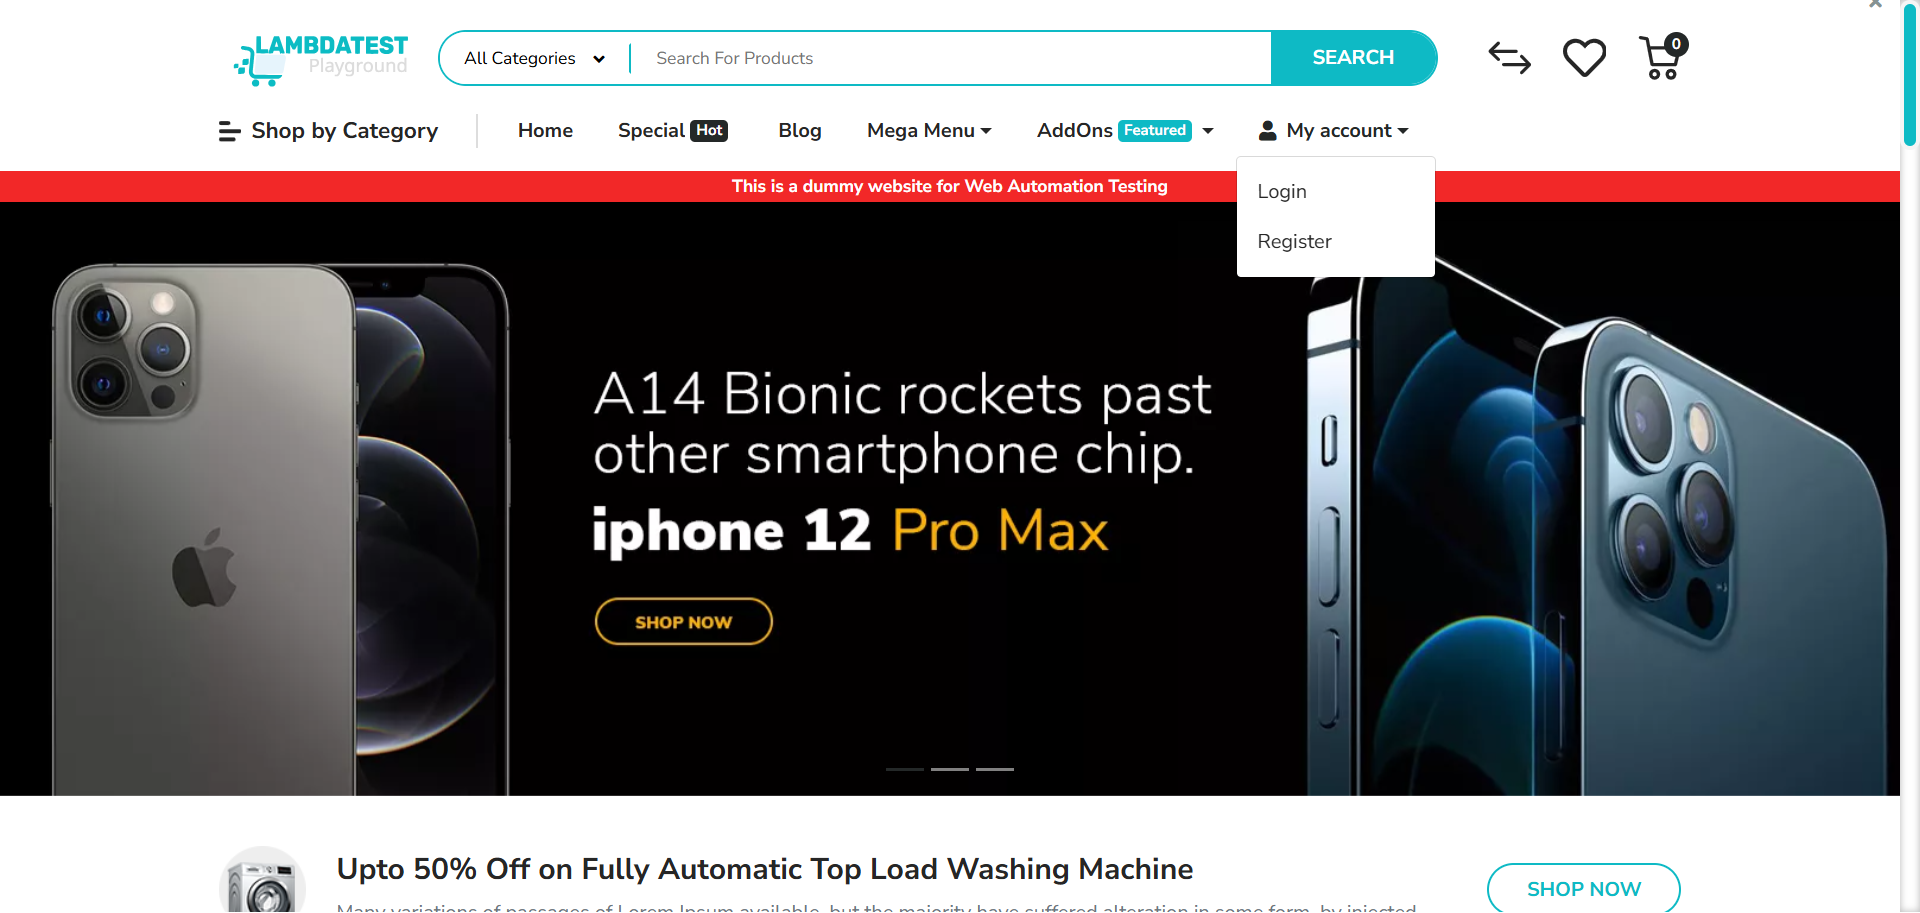
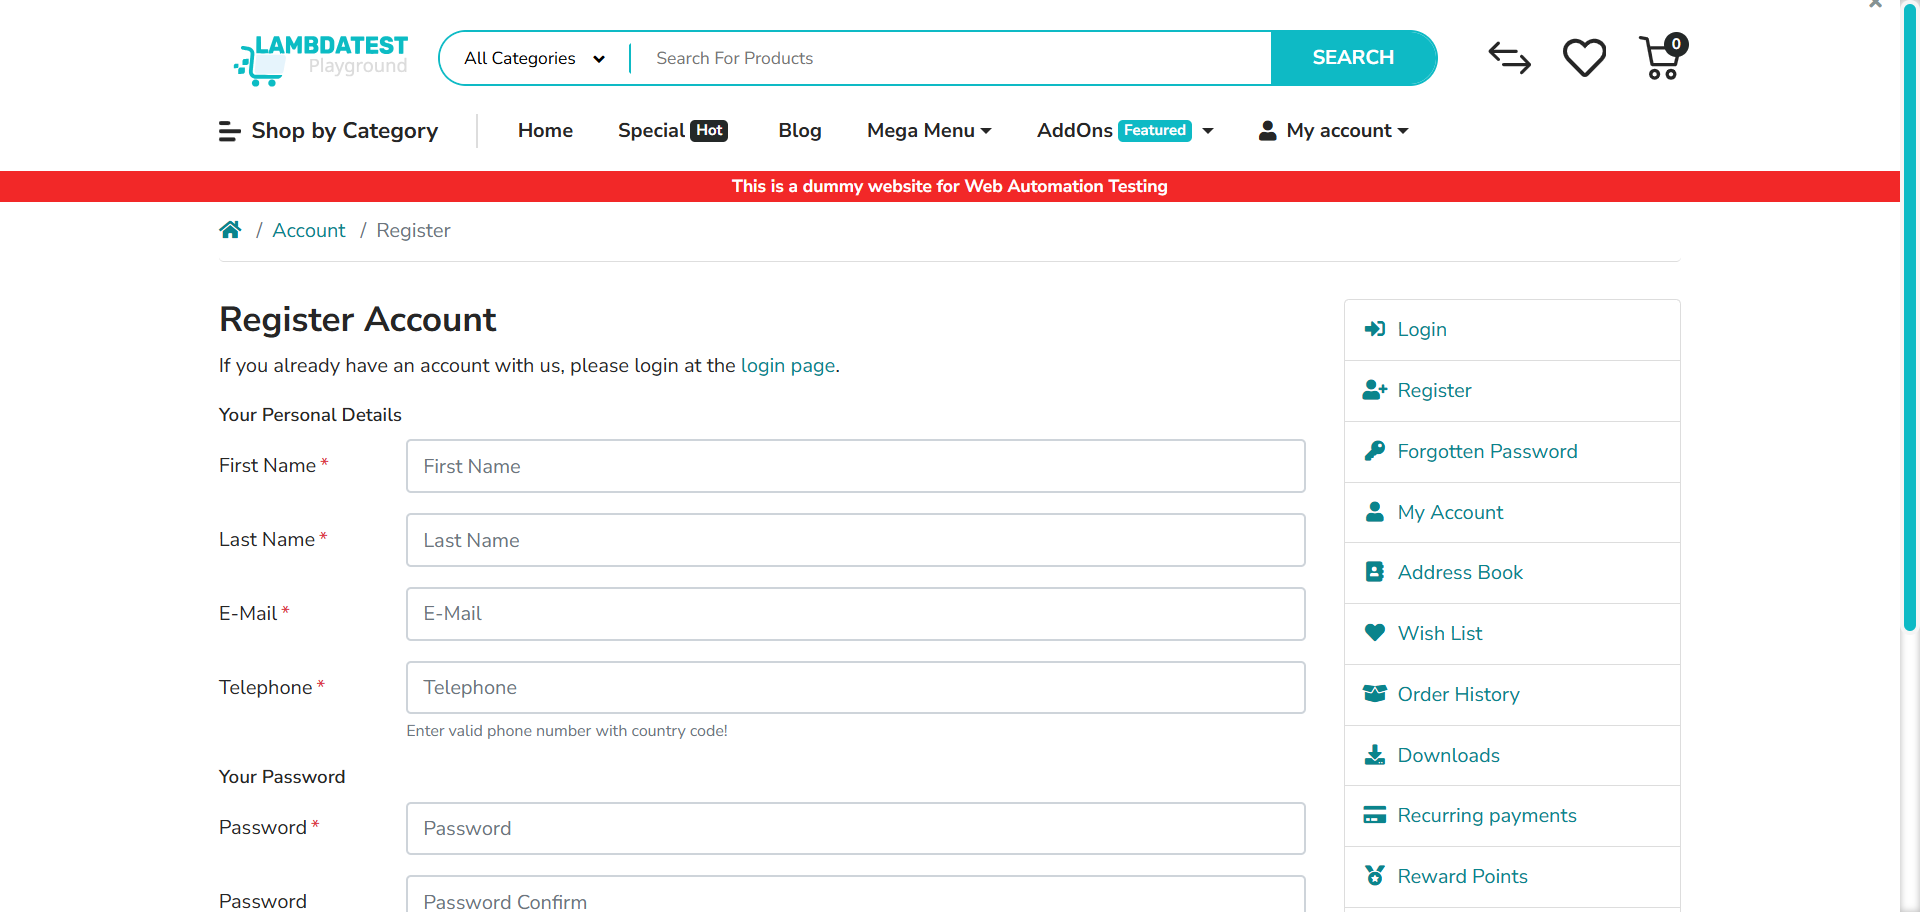
created more functions

diff --git a/tests/ecommerce-flow.spec.ts b/tests/ecommerce-flow.spec.ts
@@ -1,43 +1,37 @@
-import { test, expect, BrowserContext, Page } from "@playwright/test";
-const { goToRegisterPage, register } = require("../pages/RegisterPage");
-const { goToLoginPage, login } = require("../pages/LoginPage");
-const { addProduct, searchProduct } = require("../pages/Products");
-const { confirmOrder, fillForm, goToCart } = require("../pages/Checkout");
+import { test, BrowserContext, Page } from "@playwright/test";
 import { faker } from "@faker-js/faker";
 import * as fs from "node:fs";
+import dontenv from "dotenv";
+import type {
+  BillingData,
+  RegisterData,
+  TestResult,
+} from "../files/common.types";
 
-interface RegisterData {
-  firstName: string;
-  lastName: string;
-  email: string;
-  telephone: string;
-  password: string;
-  newsletter: "Yes" | "No";
-}
+dontenv.config();
 
-interface BillingData {
-  firstName: string;
-  lastName: string;
-  company: string;
-  add1: string;
-  add2: string;
-  city: string;
-  postcode: string;
-}
-
-type TestResult = {
-  title: string | undefined;
-  status: string | undefined;
-  screenshot?: string | undefined;
-};
-
+const pageUrl = process.env.PAGE_URL || "";
 const results: TestResult[] = [];
 
-let screenshotPath: string | undefined;
-let context: BrowserContext;
-let page: Page;
-let registeredEmail: string;
-let password: string;
+const {
+    register,
+    generateRandomRegisterData,
+  } = require("../pages/RegisterPage"),
+  { login } = require("../pages/LoginPage"),
+  { addProduct, searchProduct } = require("../pages/Products"),
+  {
+    confirmOrder,
+    fillForm,
+    goToCart,
+    generateRandomBillingData,
+  } = require("../pages/Checkout");
+
+let screenshotPath: string | undefined,
+  context: BrowserContext,
+  page: Page,
+  registeredEmail: string = process.env.REGISTERED_EMAIL || "",
+  password: string = process.env.PASSWORD || "",
+  registered: boolean = false;
 
 test.describe("Ecommerce Flow", () => {
   test.describe.configure({ mode: "serial" });
@@ -48,32 +42,17 @@ test.describe("Ecommerce Flow", () => {
   });
 
   test("Register", async () => {
-    registeredEmail = faker.internet.email();
-    password = faker.internet.password();
-    const regisData: RegisterData = {
-      firstName: faker.person.firstName(),
-      lastName: faker.person.lastName(),
-      email: registeredEmail,
-      telephone: faker.phone.number(),
-      password,
-      newsletter: Math.random() > 0.5 ? "Yes" : "No",
-    };
+    const regisData: RegisterData = generateRandomRegisterData();
+    registeredEmail = regisData.email;
+    password = regisData.password;
 
-    await page.goto("https://ecommerce-playground.lambdatest.io/");
-    await goToRegisterPage(page);
-    await register(page, regisData);
-    await expect(page).toHaveTitle("Your Account Has Been Created!");
+    await page.goto(pageUrl);
+    registered = await register(page, regisData);
   });
 
   test("Login", async () => {
-    await page.goto("https://ecommerce-playground.lambdatest.io/");
-    const alreadyLoggedIn = await goToLoginPage(page);
-    if (!alreadyLoggedIn) {
-      await login(page, registeredEmail, password);
-      await expect(page).toHaveTitle("My Account");
-    } else {
-      await expect(page).toHaveTitle("Your Store");
-    }
+    test.skip(registered, "User already registered, skipping login test");
+    await login(page, registeredEmail, password);
   });
 
   test("Product", async () => {
@@ -82,15 +61,7 @@ test.describe("Ecommerce Flow", () => {
   });
 
   test("Checkout", async ({}, testInfo) => {
-    const billingData: BillingData = {
-      firstName: faker.person.firstName(),
-      lastName: faker.person.lastName(),
-      company: faker.company.name(),
-      add1: faker.location.streetAddress(),
-      add2: faker.location.secondaryAddress(),
-      city: faker.location.city(),
-      postcode: faker.location.zipCode(),
-    };
+    const billingData: BillingData = generateRandomBillingData();
 
     await goToCart(page);
     await fillForm(page, billingData);

diff --git a/pages/Checkout.ts b/pages/Checkout.ts
@@ -1,15 +1,7 @@
 import { expect, Page } from "@playwright/test";
+import { faker } from "@faker-js/faker";
+import type { BillingData } from "../files/common.types";
 const checkoutSelectors = require("../selectors/checkout.json");
-
-interface BillingData {
-  firstName: string;
-  lastName: string;
-  company: string;
-  add1: string;
-  add2: string;
-  city: string;
-  postcode: string;
-}
 
 async function goToCart(page: Page) {
   await page.locator(checkoutSelectors.openCartButton).click();
@@ -17,25 +9,20 @@ async function goToCart(page: Page) {
 }
 
 async function fillForm(page: Page, data: BillingData) {
+  const { firstName, lastName, company, add1, add2, city, postcode } = data;
   await page
     .locator(checkoutSelectors.billingAddressFirstNameInput)
-    .fill(data.firstName);
+    .fill(firstName);
   await page
     .locator(checkoutSelectors.billingAddressLastNameInput)
-    .fill(data.lastName);
+    .fill(lastName);
   await page
     .locator(checkoutSelectors.billingAddressCompanyInput)
-    .fill(data.company);
-  await page
-    .locator(checkoutSelectors.billingAddressLine1Input)
-    .fill(data.add1);
-  await page
-    .locator(checkoutSelectors.billingAddressLine2Input)
-    .fill(data.add2);
-  await page.locator(checkoutSelectors.billingCityInput).fill(data.city);
-  await page
-    .locator(checkoutSelectors.billingPostcodeInput)
-    .fill(data.postcode);
+    .fill(company);
+  await page.locator(checkoutSelectors.billingAddressLine1Input).fill(add1);
+  await page.locator(checkoutSelectors.billingAddressLine2Input).fill(add2);
+  await page.locator(checkoutSelectors.billingCityInput).fill(city);
+  await page.locator(checkoutSelectors.billingPostcodeInput).fill(postcode);
 
   const country = page.locator(checkoutSelectors.billingCountrySelect);
   const countryOptions = await country.count();
@@ -56,7 +43,25 @@ async function fillForm(page: Page, data: BillingData) {
 async function confirmOrder(page: Page) {
   await page.locator(checkoutSelectors.confirmOrderButton).click();
   await expect(page).toHaveTitle("Your order has been placed!");
-  console.log("Order Placed!!!!!!!!!");
+  console.log("Order Placed!!!!");
 }
 
-module.exports = { goToCart, fillForm, confirmOrder };
+function generateRandomBillingData() {
+  const billingData: BillingData = {
+    firstName: faker.person.firstName(),
+    lastName: faker.person.lastName(),
+    company: faker.company.name(),
+    add1: faker.location.streetAddress(),
+    add2: faker.location.secondaryAddress(),
+    city: faker.location.city(),
+    postcode: faker.location.zipCode(),
+  };
+  return billingData;
+}
+
+module.exports = {
+  goToCart,
+  fillForm,
+  confirmOrder,
+  generateRandomBillingData,
+};

diff --git a/pages/LoginPage.ts b/pages/LoginPage.ts
@@ -1,38 +1,24 @@
-import { Page } from "@playwright/test";
+import { Page, expect } from "@playwright/test";
 import loginSelectors from "../selectors/login.json";
+import { shortTimeout } from "../files/global.json";
 
-async function goToLoginPage(page: Page) {
-  const menuButton = page.locator(loginSelectors.accountMenuButton);
-  const loginOption = page.locator(loginSelectors.loginOption);
-  const logoutOption = page.locator(loginSelectors.logoutOption);
-
-  await menuButton.hover();
-  const loginOptionVisible = await loginOption.isVisible();
-  const logoutOptionVisible = await logoutOption.isVisible();
-  // console.log(`Login option visible: ${loginOptionVisible}`);
-  // console.log(`Logout option visible: ${logoutOptionVisible}`);
-
-  if (loginOptionVisible) {
-    await loginOption.waitFor({ state: "visible" });
-    await loginOption.click();
-    return false;
-  }
-
-  if (logoutOptionVisible) {
-    console.log("Login option not found, user already logged in");
-    return true;
-  }
-
-  console.log(
-    "Neither login nor logout option found, user might be on a different page",
-  );
-  return false;
+async function navigateToLoginPage(page: Page) {
+  await page.locator(loginSelectors.accountMenuButton).hover();
+  await page.locator(loginSelectors.loginOption).waitFor({ state: "visible" });
+  await page.locator(loginSelectors.loginOption).click();
 }
 
-async function login(page: Page, user: string, pass: string) {
+async function addLoginCreds(page: Page, user: string, pass: string) {
   await page.locator(loginSelectors.emailInput).fill(user);
   await page.locator(loginSelectors.passwordInput).fill(pass);
   await page.locator(loginSelectors.loginButton).click();
+}
+
+async function login(page: Page, user: string, pass: string) {
+  await navigateToLoginPage(page);
+  await addLoginCreds(page, user, pass);
+  await page.waitForTimeout(shortTimeout);
+  await expect(page).toHaveTitle("My Account");
 }
 
 async function logout(page: Page) {
@@ -44,4 +30,4 @@ async function logout(page: Page) {
   await logoutOption.click();
 }
 
-module.exports = { goToLoginPage, login, logout };
+module.exports = { navigateToLoginPage, addLoginCreds, login, logout };

diff --git a/pages/RegisterPage.ts b/pages/RegisterPage.ts
@@ -1,14 +1,7 @@
-import { Page } from "@playwright/test";
+import { Page, expect } from "@playwright/test";
+import { faker } from "@faker-js/faker";
+import type { RegisterData } from "../files/common.types";
 import registerSelectors from "../selectors/register.json";
-
-interface RegisterData {
-  firstName: string;
-  lastName: string;
-  email: string;
-  telephone: string;
-  password: string;
-  newsletter: "Yes" | "No";
-}
 
 async function goToRegisterPage(page: Page) {
   const menuButton = page.locator(registerSelectors.accountMenuButton);
@@ -19,15 +12,8 @@ async function goToRegisterPage(page: Page) {
   await registerOption.click();
 }
 
-async function register(page: Page, data: RegisterData) {
-  const {
-    firstName,
-    lastName,
-    email,
-    telephone,
-    password,
-    newsletter,
-  } = data;
+async function fillRegisterFields(page: Page, data: RegisterData) {
+  const { firstName, lastName, email, telephone, password, newsletter } = data;
 
   console.log(`Registering new user: ${firstName} ${lastName} [${email}]`);
   await page.locator(registerSelectors.firstNameInput).fill(firstName);
@@ -43,4 +29,29 @@ async function register(page: Page, data: RegisterData) {
   await page.locator(registerSelectors.registerButton).click();
 }
 
-module.exports = { goToRegisterPage, register };
+async function register(page: Page, data: RegisterData) {
+  await goToRegisterPage(page);
+  await fillRegisterFields(page, data);
+  await expect(page).toHaveTitle("Your Account Has Been Created!");
+  return true;
+}
+
+function generateRandomRegisterData() {
+  const regisData: RegisterData = {
+    firstName: faker.person.firstName(),
+    lastName: faker.person.lastName(),
+    email: faker.internet.email(),
+    telephone: faker.phone.number(),
+    password: faker.internet.password(),
+    newsletter: Math.random() > 0.5 ? "Yes" : "No",
+  };
+  console.log(JSON.stringify(regisData, null, 2));
+  return regisData;
+}
+
+module.exports = {
+  goToRegisterPage,
+  fillRegisterFields,
+  register,
+  generateRandomRegisterData,
+};

diff --git a/files/common.types.ts b/files/common.types.ts
@@ -1,0 +1,24 @@
+export interface RegisterData {
+  firstName: string;
+  lastName: string;
+  email: string;
+  telephone: string;
+  password: string;
+  newsletter: "Yes" | "No";
+}
+
+export interface BillingData {
+  firstName: string;
+  lastName: string;
+  company: string;
+  add1: string;
+  add2: string;
+  city: string;
+  postcode: string;
+}
+
+export type TestResult = {
+  title: string | undefined;
+  status: string | undefined;
+  screenshot?: string | undefined;
+};

diff --git a/pages/Products.ts b/pages/Products.ts
@@ -32,10 +32,10 @@ async function addProduct(page: Page) {
     if (isOutOfStock) {
       await page.goBack();
     } else {
-      console.log("Adding to cartttttttttt");
+      console.log("Adding to cart");
       await page.locator(productSelectors.addToCartButton).click();
       await expect(addProductConfirmation).toBeVisible();
-      console.log("Added to cartttttttttt");
+      console.log("Added to cart");
       break;
     }
   }
